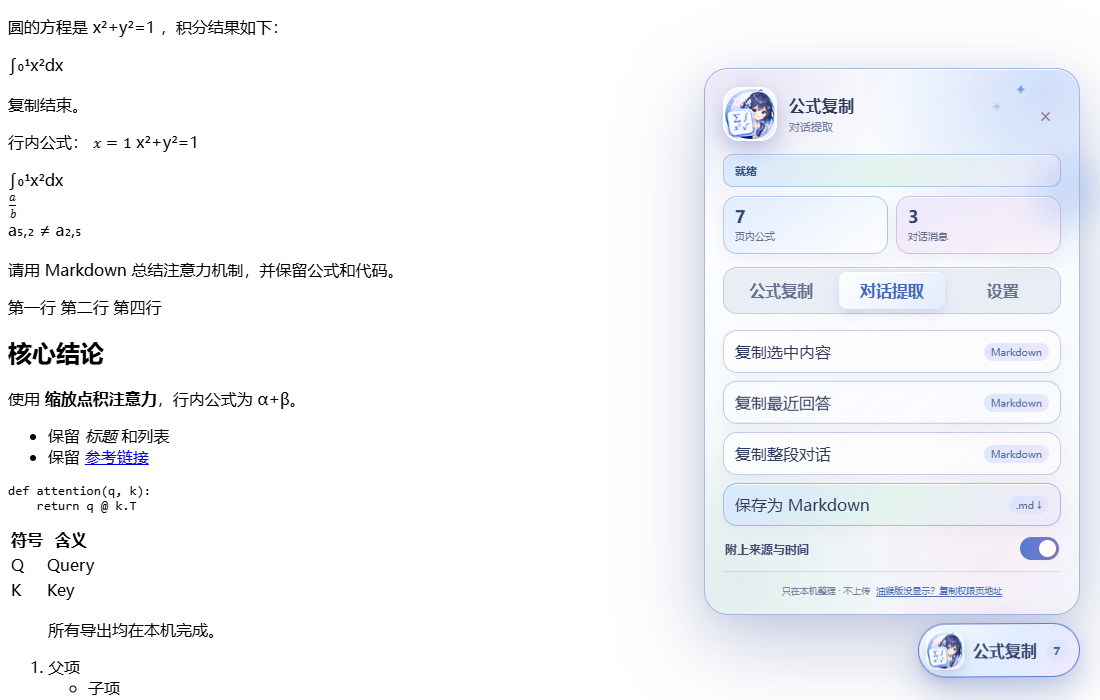
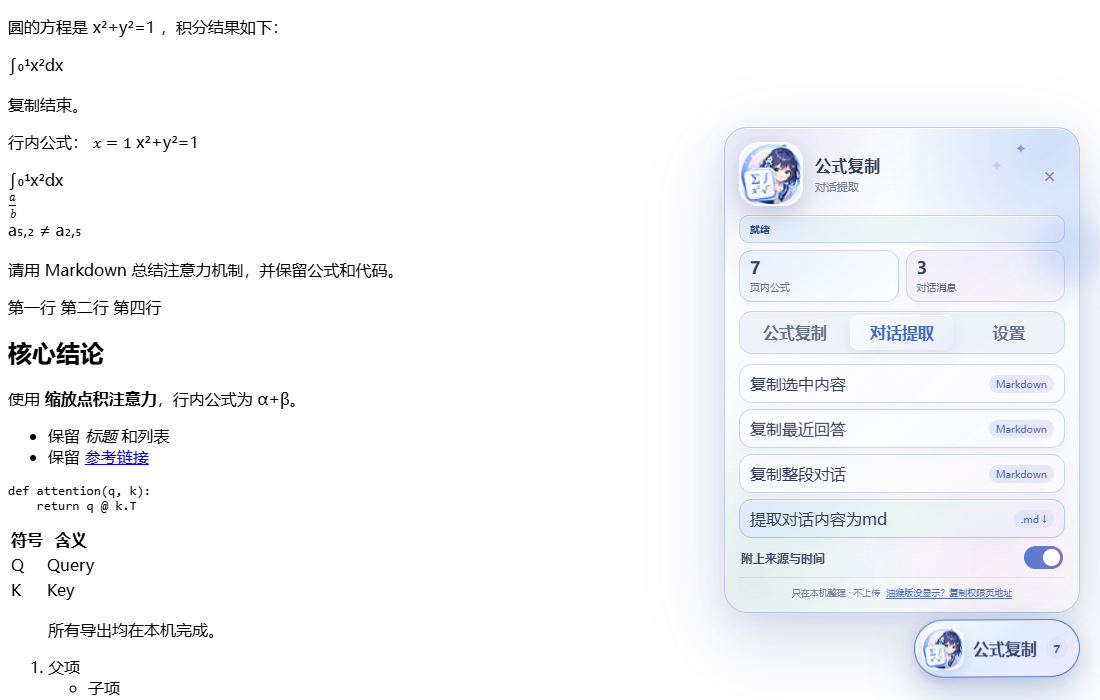
Refine v5 panel and simplify userscript release

diff --git a/chatgpt-latex-copy.user.js b/chatgpt-latex-copy.user.js
@@ -926,9 +926,9 @@
           color-scheme: light;
           --ink: #303a5a;
           --muted: #66708b;
-          --paper: rgba(248,251,255,.86);
-          --paper-strong: rgba(255,255,255,.82);
-          --line: rgba(111,137,198,.4);
+          --paper: rgba(248,251,255,.72);
+          --paper-strong: rgba(255,255,255,.55);
+          --line: rgba(111,137,198,.3);
           --blue: #527bd6;
           --blue-deep: #344e96;
           --blue-soft: rgba(214,229,255,.78);
@@ -944,7 +944,7 @@
         button, select, textarea { font: inherit; }
         button { -webkit-tap-highlight-color: transparent; }
         #launcher {
-          display:flex; align-items:center; gap:9px; min-height:52px;
+          display:flex; align-items:center; gap:9px; min-height:54px;
           padding:7px 11px 7px 7px; border:1px solid rgba(92,128,211,.58); border-radius:999px;
           background:linear-gradient(135deg,rgba(255,255,255,.97),rgba(224,236,255,.96) 52%,rgba(239,233,252,.94)); color:#35436c; cursor:pointer;
           box-shadow:0 12px 34px rgba(58,83,157,.22),0 3px 15px rgba(91,142,190,.15),inset 0 1px rgba(255,255,255,.96);
@@ -955,23 +955,23 @@
         #launcher:active { transform:translateY(0) scale(.98); }
         #launcher[data-enabled="false"] { background:#eee9e5; color:#8e8488; border-color:#d6ceca; }
         #launcher:focus-visible, button:focus-visible, select:focus-visible { outline:2px solid #557fd8; outline-offset:2px; }
-        #launcher-icon { display:block; width:38px; height:38px; border:1px solid rgba(255,255,255,.9); border-radius:12px; object-fit:cover; box-shadow:0 5px 14px rgba(63,91,166,.28); }
+        #launcher-icon { display:block; width:42px; height:42px; border:1px solid rgba(255,255,255,.82); border-radius:13px; object-fit:cover; box-shadow:0 5px 16px rgba(63,91,166,.24); }
         #launcher-count {
           display:grid; place-items:center; min-width:22px; height:22px; padding:0 6px;
           border-radius:999px; background:linear-gradient(135deg,var(--blue-soft),var(--lavender-soft)); color:#3f5f9e; font-size:11px;
         }
         #panel {
-          position:absolute; right:0; bottom:65px; width:min(376px,calc(100vw - 24px));
-          padding:18px; border:1px solid rgba(113,139,205,.56); border-radius:24px;
+          position:absolute; right:0; bottom:67px; width:min(356px,calc(100vw - 24px));
+          padding:14px; border:1px solid rgba(113,139,205,.38); border-radius:23px;
           background:
             radial-gradient(circle at 91% 4%,rgba(94,143,235,.28),transparent 30%),
             radial-gradient(circle at 8% 94%,rgba(94,162,132,.15),transparent 31%),
             radial-gradient(circle at 11% 3%,rgba(154,133,210,.2),transparent 25%),
             radial-gradient(circle at 76% 90%,rgba(231,145,180,.12),transparent 28%),
-            linear-gradient(145deg,rgba(255,255,255,.78),rgba(244,248,255,.68)),
+            linear-gradient(145deg,rgba(255,255,255,.62),rgba(244,248,255,.48)),
             var(--paper);
-          backdrop-filter:blur(26px) saturate(1.28);
-          box-shadow:0 28px 82px rgba(53,72,137,.27),0 8px 30px rgba(99,128,198,.13),inset 0 1px rgba(255,255,255,.94);
+          backdrop-filter:blur(32px) saturate(1.2);
+          box-shadow:0 24px 70px rgba(53,72,137,.2),0 7px 24px rgba(99,128,198,.1),inset 0 1px rgba(255,255,255,.72);
           color:var(--ink); opacity:0; visibility:hidden; pointer-events:none;
           transform:translateY(10px) scale(.975); transform-origin:right bottom;
           transition:opacity .18s ease,transform .18s ease,visibility .18s;
@@ -982,7 +982,7 @@
         #panel-head { display:flex; justify-content:space-between; align-items:center; gap:12px; cursor:grab; user-select:none; touch-action:none; }
         #panel-head:active { cursor:grabbing; }
         #brand { display:flex; align-items:center; gap:12px; min-width:0; }
-        #brand-icon { display:block; width:54px; height:54px; flex:none; border:2px solid rgba(255,255,255,.92); border-radius:17px; object-fit:cover; box-shadow:0 9px 22px rgba(58,83,157,.3); }
+        #brand-icon { display:block; width:64px; height:64px; flex:none; border:2px solid rgba(255,255,255,.82); border-radius:20px; object-fit:cover; box-shadow:0 9px 24px rgba(58,83,157,.25); }
         #brand-title { color:#303a5a; font-size:16px; font-weight:780; letter-spacing:.025em; }
         #brand-subtitle { margin-top:3px; color:#74809d; font-size:11px; }
         #close {
@@ -991,31 +991,31 @@
         }
         #close:hover { background:var(--blue-soft); color:#4167bd; }
         #status {
-          margin:13px 0 0; padding:8px 11px; border:1px solid rgba(105,145,216,.44); border-radius:10px;
-          background:linear-gradient(110deg,rgba(217,232,255,.9),rgba(224,242,234,.78),rgba(239,234,251,.74)); color:#354f88; font-size:11px; font-weight:650;
+          margin:9px 0 0; padding:6px 10px; border:1px solid rgba(105,145,216,.3); border-radius:10px;
+          background:linear-gradient(110deg,rgba(217,232,255,.64),rgba(224,242,234,.52),rgba(239,234,251,.5)); color:#354f88; font-size:10px; font-weight:650;
           box-shadow:inset 0 1px rgba(255,255,255,.76);
         }
-        #metrics { display:grid; grid-template-columns:1fr 1fr; gap:8px; margin-top:9px; }
-        .metric { padding:10px 11px; border:1px solid var(--line); border-radius:14px; background:var(--paper-strong); box-shadow:0 5px 16px rgba(83,61,86,.07),inset 0 1px rgba(255,255,255,.78); }
-        .metric:first-child { border-color:rgba(102,144,223,.44); background:linear-gradient(145deg,rgba(222,235,255,.92),rgba(255,255,255,.72)); }
-        .metric:last-child { border-color:rgba(153,133,202,.42); background:linear-gradient(145deg,rgba(236,231,251,.9),rgba(250,238,247,.68)); }
+        #metrics { display:grid; grid-template-columns:1fr 1fr; gap:7px; margin-top:7px; }
+        .metric { padding:7px 10px; border:1px solid var(--line); border-radius:13px; background:var(--paper-strong); box-shadow:0 4px 13px rgba(83,61,86,.05),inset 0 1px rgba(255,255,255,.62); }
+        .metric:first-child { border-color:rgba(102,144,223,.32); background:linear-gradient(145deg,rgba(222,235,255,.66),rgba(255,255,255,.48)); }
+        .metric:last-child { border-color:rgba(153,133,202,.3); background:linear-gradient(145deg,rgba(236,231,251,.64),rgba(250,238,247,.44)); }
         .metric strong { display:block; color:#33426b; font-size:17px; line-height:1.1; }
         .metric span { display:block; margin-top:3px; color:var(--muted); font-size:10px; }
-        #tabs { display:grid; grid-template-columns:repeat(3,1fr); gap:4px; margin:13px 0 4px; padding:4px; border:1px solid rgba(118,143,201,.36); border-radius:14px; background:rgba(72,99,160,.09); box-shadow:inset 0 1px rgba(255,255,255,.58); }
-        .tab { padding:8px 5px; border:0; border-radius:9px; background:transparent; color:#66718e; cursor:pointer; font-weight:700; }
+        #tabs { display:grid; grid-template-columns:repeat(3,1fr); gap:3px; margin:9px 0 2px; padding:3px; border:1px solid rgba(118,143,201,.28); border-radius:13px; background:rgba(72,99,160,.065); box-shadow:inset 0 1px rgba(255,255,255,.46); }
+        .tab { padding:7px 4px; border:0; border-radius:9px; background:transparent; color:#66718e; cursor:pointer; font-weight:700; }
         .tab:hover { color:#36466f; }
-        .tab[data-active="true"] { background:linear-gradient(135deg,rgba(255,255,255,.95),rgba(226,235,255,.9)); color:#4167bd; box-shadow:0 4px 12px rgba(63,87,153,.16),inset 0 1px #fff; }
-        .pane { padding-top:4px; }
+        .tab[data-active="true"] { background:linear-gradient(135deg,rgba(255,255,255,.72),rgba(226,235,255,.62)); color:#4167bd; box-shadow:0 4px 12px rgba(63,87,153,.11),inset 0 1px rgba(255,255,255,.7); }
+        .pane { padding-top:2px; }
         .pane[hidden] { display:none; }
         .action {
           display:flex; align-items:center; justify-content:space-between; gap:10px;
-          width:100%; margin-top:8px; padding:10px 11px; border:1px solid var(--line);
-          border-radius:14px; background:linear-gradient(135deg,rgba(255,255,255,.8),rgba(255,250,251,.68)); color:var(--ink); cursor:pointer; text-align:left;
-          box-shadow:0 5px 15px rgba(83,61,86,.06),inset 0 1px rgba(255,255,255,.75);
+          width:100%; margin-top:6px; padding:8px 10px; border:1px solid var(--line);
+          border-radius:13px; background:linear-gradient(135deg,rgba(255,255,255,.56),rgba(255,250,251,.4)); color:var(--ink); cursor:pointer; text-align:left;
+          box-shadow:0 4px 13px rgba(83,61,86,.045),inset 0 1px rgba(255,255,255,.58);
           transition:background .15s ease,border-color .15s ease,transform .15s ease,box-shadow .15s ease;
         }
-        .action:hover { background:rgba(255,255,255,.95); border-color:rgba(76,121,215,.6); transform:translateY(-2px); box-shadow:0 9px 22px rgba(59,82,151,.14); }
-        .action.primary { border-color:rgba(93,136,219,.48); background:linear-gradient(120deg,rgba(215,231,255,.94),rgba(224,243,234,.78),rgba(238,232,251,.8)); }
+        .action:hover { background:rgba(255,255,255,.76); border-color:rgba(76,121,215,.48); transform:translateY(-1px); box-shadow:0 8px 19px rgba(59,82,151,.11); }
+        .action.primary { border-color:rgba(93,136,219,.34); background:linear-gradient(120deg,rgba(215,231,255,.68),rgba(224,243,234,.54),rgba(238,232,251,.57)); }
         .action-copy { padding:2px 7px; border-radius:999px; background:linear-gradient(135deg,rgba(213,228,255,.82),rgba(232,225,248,.76)); color:#536a9f; font-size:10px; }
         .field { display:block; margin-top:8px; color:#56617e; font-size:11px; font-weight:650; }
         #format {
@@ -1023,7 +1023,7 @@
           border-radius:12px; background:rgba(255,255,255,.72); color:var(--ink); cursor:pointer; font-weight:500;
           box-shadow:inset 0 1px rgba(255,255,255,.86);
         }
-        .switch-row { display:flex; align-items:center; justify-content:space-between; gap:12px; padding:11px 2px; border-bottom:1px solid rgba(126,148,198,.24); }
+        .switch-row { display:flex; align-items:center; justify-content:space-between; gap:12px; padding:8px 2px; border-bottom:1px solid rgba(126,148,198,.19); }
         .switch-copy strong { display:block; color:#414d70; font-size:12px; }
         .switch {
           position:relative; width:39px; height:23px; flex:none; padding:0; border:0; border-radius:999px;
@@ -1037,7 +1037,7 @@
           border-radius:10px; resize:vertical; background:#f3ede8; color:var(--ink); font:10px/1.4 Consolas,monospace;
         }
         #diagnostic-text[hidden] { display:none; }
-        #footer { display:flex; justify-content:center; align-items:center; flex-wrap:wrap; gap:3px 6px; margin:12px 1px 0; color:#7c86a0; font-size:9px; text-align:center; }
+        #footer { display:flex; justify-content:center; align-items:center; flex-wrap:wrap; gap:3px 6px; margin:8px 1px 0; color:#7c86a0; font-size:9px; text-align:center; }
         #permission-help { padding:0; border:0; background:transparent; color:#5272b9; cursor:pointer; font-size:9px; text-decoration:underline; text-underline-offset:2px; }
         #permission-help:hover { color:#3459a8; }
         @media (prefers-reduced-motion: reduce) { *, *::before, *::after { transition-duration:.01ms!important; animation-duration:.01ms!important; } }
@@ -1062,7 +1062,7 @@
           <button id="copy-selection-markdown" class="action" type="button"><span>复制选中内容</span><span class="action-copy">Markdown</span></button>
           <button id="copy-last-response" class="action" type="button"><span>复制最近回答</span><span class="action-copy">Markdown</span></button>
           <button id="copy-conversation" class="action" type="button"><span>复制整段对话</span><span class="action-copy">Markdown</span></button>
-          <button id="download-conversation" class="action primary" type="button"><span>保存为 Markdown</span><span class="action-copy">.md ↓</span></button>
+          <button id="download-conversation" class="action primary" type="button"><span>提取对话内容为md</span><span class="action-copy">.md ↓</span></button>
           <div class="switch-row"><div class="switch-copy"><strong>附上来源与时间</strong></div><button id="metadata-toggle" class="switch" type="button" role="switch" aria-label="附上来源与时间"></button></div>
         </section>
         <section class="pane" role="tabpanel" data-pane="settings" hidden>

diff --git a/README_EN.md b/README_EN.md
@@ -10,7 +10,6 @@ A lightweight, network-free ChatGPT math-content toolkit. Formulas, selections, 
 
 <p align="center">
   <img src="./docs/ui-preview.png" width="372" alt="Formula Copy page panel">
-  <img src="./docs/popup-preview.png" width="354" alt="Formula Copy popup">
 </p>
 
 ## Why
@@ -29,16 +28,13 @@ Recent ChatGPT frontend changes can make formulas selectable without exposing th
 - Copies the latest answer or the full current conversation as Markdown.
 - Downloads `.md` files while preserving headings, emphasis, lists, quotes, code blocks, tables, links, image references, and LaTeX.
 - Uses linear formula deduplication, a reusable clipboard fallback, and event-driven control recovery instead of polling; formula source is read at interaction time so streaming updates never return stale LaTeX.
-- Provides a fresh blue, dreamlike three-tab panel with a new local icon and a Chrome popup with live connection status.
+- Provides a compact, translucent blue three-tab panel with a larger local icon.
 - Makes no network requests. Formula/message elements are counted locally; content is converted only when the user runs an action.
 
 ## Install
 
 > [!IMPORTANT]
-> **First identify whether you installed the Userscript or the standalone Chrome extension. Their permissions and toolbar behavior are different.**
->
-> - **Userscript:** On Chrome 138+ with Tampermonkey 5.3+, right-click Tampermonkey → **Manage extension** → enable **Allow User Scripts**. On older Chrome versions, enable **Developer mode** on the extensions page.
-> - **Standalone Chrome extension:** This project uses a static Manifest V3 `content_scripts` entry. It does not use Tampermonkey and does not need the “Allow User Scripts” switch. Loading the unpacked ZIP still requires Chrome Developer mode.
+> On Chrome 138+ with Tampermonkey 5.3+, right-click Tampermonkey → **Manage extension** → enable **Allow User Scripts**. On older Chrome versions, enable **Developer mode** on the extensions page.
 >
 > The Chrome warning describes Tampermonkey's ability to run user-installed scripts; it is not a remote-code permission added by this project. Only install Userscripts you trust and have reviewed.
 >
@@ -49,18 +45,6 @@ Recent ChatGPT frontend changes can make formulas selectable without exposing th
 3. Confirm installation in your Userscript manager.
 4. Enable user scripts as described above and refresh `https://chatgpt.com/`.
 5. Confirm that the **公式复制** button appears in the lower-right corner.
-
-### Chrome extension
-
-Run `npm run build:chrome` to create `dist/chatgpt-formula-copy-chrome-v5.0.0.zip`, with `manifest.json` correctly placed at the archive root. The MV3 extension uses a static content script and does not depend on Tampermonkey's user-script switch.
-
-1. Download `chatgpt-formula-copy-chrome-v5.0.0.zip` from the [v5.0.0 Release](https://github.com/yzhi51161-cmd/chatgpt-formula-copy/releases/tag/v5.0.0).
-2. Extract the ZIP to a permanent folder.
-3. Manually enter `chrome://extensions` in the address bar. Chrome intentionally blocks ordinary webpages from opening `chrome://` links directly.
-4. Enable **Developer mode**, choose **Load unpacked**, and select the extracted folder.
-5. Open or refresh `https://chatgpt.com/`. Pin **Formula Copy** from the extensions menu if you want its toolbar icon.
-
-Developers can run `npm run build:chrome` to recreate the package. Enable either the Chrome extension or the Userscript, not both.
 
 ## Use
 
@@ -97,12 +81,11 @@ npm install
 npm test
 npm run icons
 npm run preview
-npm run build:chrome
 ```
 
-`npm test` covers the Userscript, MV3 package, mixed selections, rich Markdown export, a 250-formula performance regression, control recovery, popup messaging, and download entry points.
+`npm test` covers the Userscript, mixed selections, rich Markdown export, a 250-formula performance regression, control recovery, and download entry points.
 
-See [CHROME_WEB_STORE.md](./CHROME_WEB_STORE.md) for listing and review details, and [PRIVACY.md](./PRIVACY.md) for the privacy policy.
+See [PRIVACY.md](./PRIVACY.md) for the privacy policy.
 
 ## Contributing
 

diff --git a/README.md b/README.md
@@ -12,7 +12,6 @@
 
 <p align="center">
   <img src="./docs/ui-preview.png" width="372" alt="公式复制页面面板">
-  <img src="./docs/popup-preview.png" width="354" alt="公式复制 Popup">
 </p>
 
 ## 功能
@@ -27,17 +26,14 @@
 - 支持复制最后一条 ChatGPT 回答为 Markdown。
 - 支持把当前选区整理为 Markdown。
 - 支持复制或下载完整对话为 Markdown，保留标题、粗体、列表、引用、代码块、表格、链接、图片引用和 LaTeX。
-- 与新版蓝色 Logo 协调的清新梦幻风复制 / 对话提取 / 设置面板，以及可显示当前页公式和消息数量的 Chrome Popup。
+- 与新版蓝色 Logo 协调的半透明清新梦幻风复制 / 对话提取 / 设置面板。
 - 使用线性公式去重、复用剪贴板后备节点和事件驱动恢复，降低大选区复制与页面常驻开销；每次交互重新读取公式源，避免流式回答产生陈旧结果。
 - 内置窄范围公式 DOM 诊断，便于前端结构变化后的快速适配。
 
 ## 安装
 
 > [!IMPORTANT]
-> **请先确认你安装的是油猴版还是 Chrome 扩展版，两者的权限和图标不同。**
->
-> - **油猴版：**Chrome 138+ 使用 Tampermonkey 5.3+ 时，右键 Tampermonkey 图标 → **管理扩展程序** → 打开 **允许运行用户脚本（Allow User Scripts）**。Chrome 138 以前需要开启扩展管理页右上角的 **开发者模式**。
-> - **Chrome 扩展版：**使用静态 Manifest V3 `content_scripts`，不依赖 Tampermonkey，也不需要“允许运行用户脚本”开关；从 ZIP 手动安装时仍需使用 Chrome 的“开发者模式”加载解压目录。
+> Chrome 138+ 使用 Tampermonkey 5.3+ 时，右键 Tampermonkey 图标 → **管理扩展程序** → 打开 **允许运行用户脚本（Allow User Scripts）**。Chrome 138 以前需要开启扩展管理页右上角的 **开发者模式**。
 >
 > Chrome 的警告是在说明 Tampermonkey 可以运行用户安装的脚本，并不是本项目额外申请的远程代码权限。请只安装你信任并检查过的 Userscript。
 >
@@ -52,18 +48,6 @@
 5. 页面右下角出现 **公式复制** 按钮，即表示脚本已成功运行。
 
 该权限由 Chrome 管理。权限关闭时，Tampermonkey 无法注入本脚本，因此本脚本也无法检测状态或主动弹出权限引导。UI 底部提供“复制权限页地址”入口，但它只有在脚本已能运行时才会出现。
-
-### Chrome 扩展
-
-1. 从 [v5.0.0 Release](https://github.com/yzhi51161-cmd/chatgpt-formula-copy/releases/tag/v5.0.0) 下载 `chatgpt-formula-copy-chrome-v5.0.0.zip`。
-2. 将 ZIP 完整解压到一个固定目录。
-3. 在地址栏手动输入 `chrome://extensions`。Chrome 按设计不允许网页直接打开 `chrome://` 链接。
-4. 打开右上角 **开发者模式**，选择 **加载已解压的扩展程序**，然后选择刚才的解压目录。
-5. 打开或刷新 `https://chatgpt.com/`。如需工具栏图标，请在扩展菜单中手动固定“公式复制”。
-
-开发者也可运行 `npm run build:chrome` 重新生成 ZIP；压缩包根目录直接包含 `manifest.json`。该版本使用静态 `content_scripts`，不依赖 Tampermonkey 的“允许运行用户脚本”开关。
-
-请只启用 Chrome 扩展或 Userscript 其中一种，避免同一功能重复运行。
 
 ## 使用
 
@@ -114,12 +98,11 @@ npm install
 npm test
 npm run icons
 npm run preview
-npm run build:chrome
 ```
 
-`npm test` 会验证 Userscript、Manifest V3 构建、混合选区、Markdown 富文本导出、250 公式性能回归、控制器恢复、Popup 状态桥接和下载入口。
+`npm test` 会验证 Userscript、混合选区、Markdown 富文本导出、250 公式性能回归、控制器恢复和下载入口。
 
-Chrome Web Store 的商店文案、权限说明和审核步骤见 [CHROME_WEB_STORE.md](./CHROME_WEB_STORE.md)，隐私政策见 [PRIVACY.md](./PRIVACY.md)。
+隐私说明见 [PRIVACY.md](./PRIVACY.md)。
 
 ## 参与贡献
 

diff --git a/docs/RELEASE_NOTES_v5.0.0.md b/docs/RELEASE_NOTES_v5.0.0.md
@@ -1,32 +1,26 @@
-# ChatGPT 公式复制 v5.0.0
+# ChatGPT Formula Copy v5.0.0
 
-v5.0.0 将单公式复制、混合选区复制和对话 Markdown 提取整理到一套更完整的 UI 中，并更新为与蓝色 Logo 协调的清新梦幻风格。
+v5.0.0 brings formula copying, mixed-selection conversion, and Markdown conversation export into one compact, draggable panel with a softer translucent blue design and a larger icon.
 
-## 下载与安装
+## Install
 
-### 油猴版
+Download `chatgpt-latex-copy.user.js`, then open it with Tampermonkey or Violentmonkey and confirm the installation.
 
-下载 `chatgpt-latex-copy.user.js`，或直接打开仓库中的 Raw 链接安装。
+On Chrome 138+ with Tampermonkey 5.3+, right-click Tampermonkey → **Manage extension** → enable **Allow User Scripts**. On older Chrome versions, enable **Developer mode** on the extensions page.
 
-Chrome 138+ 配合 Tampermonkey 5.3+ 时，需要在 Tampermonkey 的“管理扩展程序”页面打开“允许运行用户脚本”。旧版 Chrome 需要打开扩展管理页的“开发者模式”。油猴版不会创建独立的浏览器工具栏图标；刷新 ChatGPT 后，页面右下角出现“公式复制”才表示脚本已运行。
+The Userscript does not create a separate browser toolbar icon. Refresh ChatGPT and look for the **公式复制** button in the lower-right corner.
 
-### Chrome MV3 扩展版
+## Highlights
 
-下载 `chatgpt-formula-copy-chrome-v5.0.0.zip` 并完整解压，然后在地址栏输入 `chrome://extensions`，打开“开发者模式”，选择“加载已解压的扩展程序”。这个独立扩展使用静态 `content_scripts`，不需要 Tampermonkey 的“允许运行用户脚本”开关。
+- Copy individual ChatGPT formulas as clean LaTeX.
+- Copy mixed text-and-formula selections with Markdown math delimiters.
+- Choose automatic `$` / `$$`, always-inline, or raw LaTeX output.
+- Copy a selection, the latest answer, or the full conversation as Markdown.
+- Use **提取对话内容为md** to download the current conversation as an `.md` file.
+- Preserve headings, lists, quotes, code blocks, tables, links, images, and formulas in exports.
+- Use the compact permission helper at the bottom of the panel when troubleshooting Tampermonkey setup.
+- Process all page content locally without uploads or remote code.
 
-请只启用油猴版或 Chrome 扩展版其中一种。
+## Release file
 
-## v5.0.0 主要更新
-
-- 支持单击公式复制 LaTeX，以及混合文字与公式的整段复制。
-- 支持 Markdown 自动分隔符、始终行内和仅 LaTeX 三种格式。
-- 支持把选区、最近回答或完整对话复制为 Markdown，也可下载 `.md`。
-- Markdown 导出保留标题、列表、引用、代码块、表格、链接、图片和公式。
-- 新增可拖动的“公式复制 / 对话提取 / 设置”面板和 Chrome Popup。
-- 更新蓝色梦幻清新 UI 与本地 Logo；移除复制代码快捷按钮，代码块仍会保留在 Markdown 导出中。
-- 页面内容只在本机处理，不上传服务器，也不加载远程代码。
-
-## Release 文件
-
-- `chatgpt-latex-copy.user.js`：Tampermonkey / Violentmonkey Userscript。
-- `chatgpt-formula-copy-chrome-v5.0.0.zip`：可解压加载的 Chrome Manifest V3 扩展。
+- `chatgpt-latex-copy.user.js` — the only file users need to install.

diff --git a/CHANGELOG.md b/CHANGELOG.md
@@ -3,16 +3,15 @@
 ## 5.0.0 - 2026-08-09
 
 - Redesigned the in-page control as an animated Copy / Export / Settings toolkit.
-- Added live Chrome popup status and a no-new-permission bridge to open the page tools.
 - Added Markdown copy for the latest assistant response and the full current conversation.
 - Added Markdown copy for the current selection and a focused conversation-extraction pane.
-- Reworked the draggable page panel and popup into a fresh blue, dreamlike visual style with a new local icon and shorter UI copy.
+- Reworked the draggable page panel into a compact, translucent blue visual style with a larger local icon and shorter UI copy.
 - Added local `.md` downloads preserving headings, emphasis, lists, quotes, code blocks, tables, links, image references, and LaTeX.
 - Replaced the 1.2-second UI recovery poll with targeted `MutationObserver` recovery.
 - Added a reusable clipboard textarea and linear top-level formula deduplication; formula source and display mode stay live for streaming answers.
-- Documented Chrome 138+ Tampermonkey “Allow User Scripts” requirements, clarified standalone-extension permissions, and added a compact in-UI address helper.
+- Documented Chrome 138+ Tampermonkey “Allow User Scripts” requirements and added a compact in-UI address helper.
 - Added reproducible icon and UI-preview generation scripts.
-- Added rich-export, 250-formula performance, immediate control recovery, MV3 messaging, popup, and download tests.
+- Added rich-export, 250-formula performance, immediate control recovery, and download tests.
 
 ## 4.1.0 - 2026-08-09
 

diff --git a/PRIVACY.md b/PRIVACY.md
@@ -14,7 +14,6 @@ ChatGPT 公式复制用于把公式、选区、回答或当前对话转换为便
 - 用户主动复制的失败诊断只包含被点击公式自身的有限 DOM 信息；不包含祖先对话正文、会话路径或 User-Agent。分享诊断前仍建议自行检查内容。
 - 扩展不会出售、共享或允许人工读取用户数据。
 
-本扩展对信息的使用遵守 Chrome Web Store User Data Policy，包括 Limited Use 要求。
 
 如有隐私问题，请通过 [GitHub Issues](https://github.com/yzhi51161-cmd/chatgpt-formula-copy/issues) 联系开发者。
 
@@ -30,6 +29,5 @@ ChatGPT Formula Copy converts formulas, selections, answers, or the current conv
 - A diagnostic copied explicitly by the user contains only limited DOM information from the clicked formula, not ancestor conversation text, conversation paths, or the User-Agent. Users should still inspect it before sharing.
 - User data is never sold, shared, or made available for human review.
 
-The use of information received from Chrome APIs adheres to the Chrome Web Store User Data Policy, including the Limited Use requirements.
 
 For privacy questions, contact the developer through [GitHub Issues](https://github.com/yzhi51161-cmd/chatgpt-formula-copy/issues).
